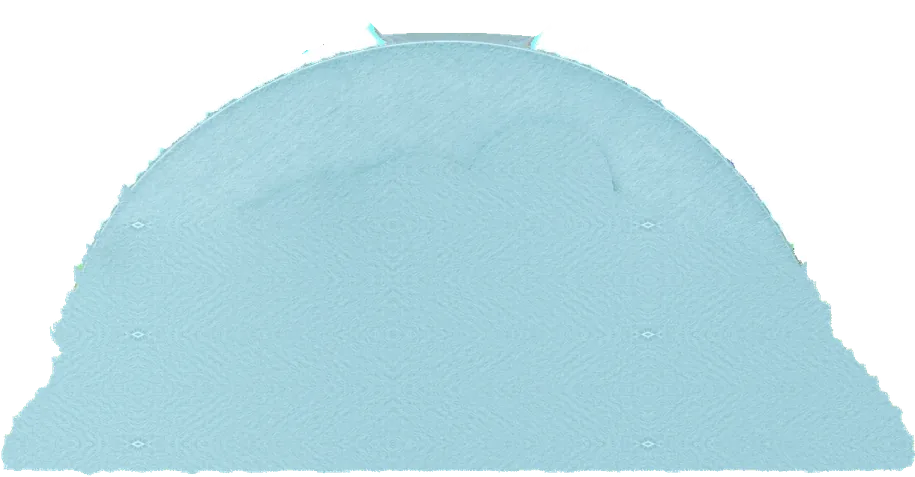
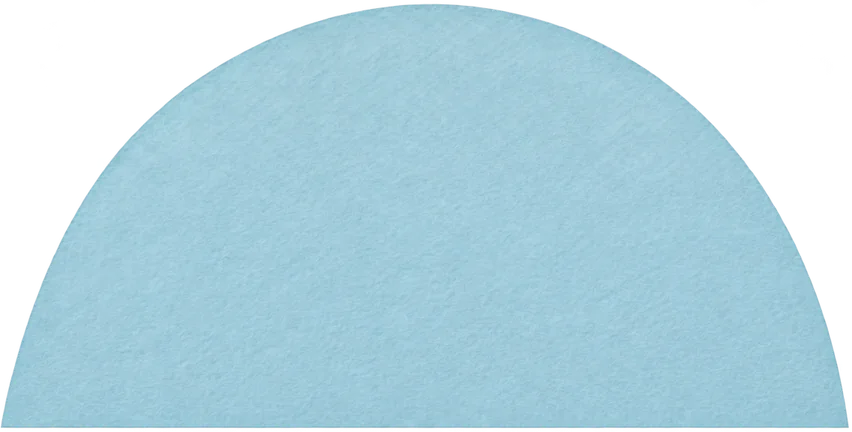
Home animation: Lizeth's complete layers, built layer by layer
The living-landscape animation now uses the 13 layers Lizeth prepared for
the transition (capas-completas-transicion, 2026-11-20): sky, cream
mountain, teal mountains, green hills and ground drawn whole, then water,
forests, biodiversity, people, agriculture, soils and climate (each with
its medallion), then the arc and the caption. Their timing: base 0-2 s,
water 3 s, then every 1.5 s, arc 13 s; a soft fade with a short rise; a
two-second hold; loop at 16.1 s.

The still is these layers stacked, so the last frame and the still are the
same picture. 13 layers + still: 599 KB (the 75 cut pieces and the dome
mask are removed).

Changed region(s): [[0.0, 0.0, 1.0, 1.0]]

diff --git a/frontend/src/lib/ui/living-landscape-timeline.ts b/frontend/src/lib/ui/living-landscape-timeline.ts
@@ -1,165 +1,63 @@
 /**
- * Timeline of the home page's living-landscape animation: the paper illustration builds itself one
- * part at a time, each part of the scene with its medallion, then the dashed arc and the caption,
- * holds on the full picture and loops. Order and timing follow the layer plan of 2026-11-19 (base 0 s,
- * water 1 s, then one part every 1.5 s, arc and caption at 11.5 s, still from 13 s to 15 s); every
- * entry is a soft fade with a short move, 0.4 to 0.6 s.
- * Pure (no DOM): `LivingLandscape.astro` applies the poses. Distances are in pixels of the
- * 1116 x 750 scene. The pieces are cut from the illustration outside this repository
- * (MOSAIC_development/_docs/living-landscape-animation/build in the project folder).
+ * Timeline of the home page's living-landscape animation: the paper illustration builds itself layer
+ * by layer — sky, mountains, hills and ground, then each part of the landscape with its medallion,
+ * then the dashed arc and the caption — holds on the full picture and loops.
+ * Layers and timing are Lizeth's layer set for the transition (capas-completas-transicion,
+ * 2026-11-20): every layer is whole (what other layers hide is drawn too), and each one comes in with
+ * a soft fade and a short rise from below.
+ * Pure (no DOM): `LivingLandscape.astro` applies the poses. Distances are in pixels of the 1116 x 750
+ * scene. The layers are exported by MOSAIC_development/_docs/living-landscape-animation/build/
+ * export_layers_site.py in the project folder, outside this repository.
  */
-
-export type Kind = 'slide' | 'pop' | 'wipe' | 'rise' | 'path'
-
-export interface Params {
-  dx?: number
-  dy?: number
-  rot?: number
-  /** starting scale of a pop */
-  s0?: number
-  /** CSS transform-origin */
-  origin?: string
-  /** path: [dx, dy, rot] waypoints, the piece glides through them to its resting place */
-  pts?: [number, number, number][]
-}
 
 export interface Cue {
   id: string
   t0: number
   dur: number
-  kind: Kind
-  p: Params
+  /** the layer rises this many pixels into place */
+  rise: number
 }
 
 export interface Pose {
-  tx: number
   ty: number
-  rot: number
-  scale: number
   opacity: number
-  /** CSS clip-path, empty when none */
-  clip: string
 }
 
-/** every piece has settled; the still illustration is shown on top from here */
-export const SETTLE = 12.8
-/** the scene fades back to the empty sky from here */
-export const FADE_OUT = 15.0
-export const CYCLE = 15.6
-/** pieces in the scene from the first frame */
-export const ALWAYS = ['sky']
-
-/** The cut was drawn on the 1536 px source; the site uses it at 3/4. */
-const S = 0.75
-
-const dash = (n: number): string => 'dash' + String(n).padStart(2, '0')
-
-/** Ids that start with `prefix` and end in a number, in numeric order (river1 … river5). */
-function numbered(ids: readonly string[], prefix: string): string[] {
-  return ids
-    .filter((i) => i.startsWith(prefix) && /^\d+$/.test(i.slice(prefix.length)))
-    .sort((a, b) => Number(a.slice(prefix.length)) - Number(b.slice(prefix.length)))
-}
+/** each layer's entry, in seconds */
+export const ENTRY = 0.5
+/** layer id → start time, in order of entry */
+export const SCHEDULE: readonly (readonly [string, number])[] = [
+  ['sky', 0.0],
+  ['mountain_cream', 0.5],
+  ['mountains_teal', 1.0],
+  ['hills', 1.5],
+  ['ground', 2.0],
+  ['water', 3.0],
+  ['forests', 4.5],
+  ['biodiversity', 6.0],
+  ['people', 7.5],
+  ['agriculture', 9.0],
+  ['soils', 10.5],
+  ['climate', 12.0],
+  ['arc', 13.0],
+]
+/** every layer has settled; the still illustration is shown on top from here */
+export const SETTLE = 13.5
+/** the scene fades out from here, after a two-second hold */
+export const FADE_OUT = 15.5
+export const CYCLE = 16.1
 
 export function buildTimeline(ids: readonly string[]): Cue[] {
   const have = new Set(ids)
-  const cues: Cue[] = []
-  const at = (id: string, t0: number, dur: number, kind: Kind, p: Params = {}): void => {
-    if (!have.has(id)) return
-    const q: Params = { ...p }
-    if (q.dx !== undefined) q.dx *= S
-    if (q.dy !== undefined) q.dy *= S
-    if (q.pts) q.pts = q.pts.map(([x, y, r]) => [x * S, y * S, r])
-    cues.push({ id, t0, dur, kind, p: q })
-  }
-  /** a part of the landscape: its medallion and label first, the scene follows */
-  const medal = (name: string, t: number): void => {
-    at('med_' + name, t, 0.5, 'pop', { s0: 0.8 })
-    at('label_' + name, t + 0.1, 0.5, 'slide', { dy: 10 })
-  }
-
-  // 0 s the base: hills and ground rise into the dome, back to front
-  at('m1', 0.0, 0.6, 'slide', { dy: 40 })
-  at('m2', 0.15, 0.6, 'slide', { dy: 40 })
-  at('m3', 0.3, 0.6, 'slide', { dy: 40 })
-  at('ground', 0.45, 0.6, 'slide', { dy: 40 })
-  // 1 s water: the river flows in from its far end
-  medal('water', 1.0)
-  numbered(ids, 'river').forEach((r, k) => at(r, 1.1 + k * 0.08, 0.5, 'slide', { dy: -10 }))
-  // 2.5 s forests: the grove grows up from its base
-  medal('forests', 2.5)
-  at('grove', 2.6, 0.6, 'wipe', { dy: 10 })
-  // 4 s biodiversity: grasses, flowers, then the butterfly glides in
-  medal('biodiversity', 4.0)
-  at('plants', 4.1, 0.5, 'wipe', { dy: 8 })
-  numbered(ids, 'flower').forEach((f, k) => at(f, 4.3 + k * 0.06, 0.4, 'pop', { s0: 0.6, origin: '50% 100%' }))
-  at('butterfly', 4.5, 0.6, 'path', { pts: [[-90, 30, -12], [-40, 6, 8], [0, 0, 0]] })
-  // 5.5 s people and livelihoods: the farmhouse, then the cattle
-  medal('people', 5.5)
-  at('walls', 5.6, 0.5, 'rise', { dy: 30 })
-  at('roofs', 5.75, 0.45, 'slide', { dy: -16 })
-  at('cow1', 5.9, 0.5, 'slide', { dx: -30 })
-  at('cow2', 5.98, 0.5, 'slide', { dx: 30 })
-  // 7 s agriculture: the field, its strips, then the wheat
-  medal('agriculture', 7.0)
-  at('field', 7.1, 0.5, 'slide', { dx: 40 })
-  numbered(ids, 'stripe').forEach((s, k) => at(s, 7.25 + k * 0.05, 0.4, 'slide', { dx: 24 }))
-  numbered(ids, 'wheat').forEach((w, k) => at(w, 7.4 + k * 0.03, 0.4, 'pop', { s0: 0.6, origin: '50% 100%' }))
-  // 8.5 s land and soils: bottom layer first
-  medal('land', 8.5)
-  at('soil3', 8.6, 0.45, 'slide', { dy: 24 })
-  at('soil2', 8.7, 0.45, 'slide', { dy: 24 })
-  at('soil1', 8.8, 0.45, 'slide', { dy: 24 })
-  // 10 s climate: the sun rises behind the hills
-  medal('climate', 10.0)
-  at('sun', 10.1, 0.9, 'slide', { dy: 90 })
-  // 11.5 s the dashed arc, one dash after another from water to climate, then the caption
-  for (let n = 1; n <= 16; n++) at(dash(n), 11.5 + (n - 1) * 0.04, 0.4, 'pop', { s0: 0.5 })
-  at('rule_l', 12.2, 0.5, 'slide', { dx: -24 })
-  at('rule_r', 12.2, 0.5, 'slide', { dx: 24 })
-  at('caption', 12.25, 0.5, 'slide', { dy: 12 })
-  return cues
+  return SCHEDULE.filter(([id]) => have.has(id)).map(([id, t0]) => ({ id, t0, dur: ENTRY, rise: 8 }))
 }
 
 /** ease-out: fast start, soft landing, no overshoot */
 const ease = (p: number): number => 1 - (1 - p) ** 3
-/** the piece is fully opaque after the first 60 % of its move */
-const fadeIn = (p: number): number => {
-  const q = Math.min(1, p / 0.6)
-  return q * q * (3 - 2 * q)
-}
 
-/** Pose of a piece `p` (0…1) of the way through its cue. At p = 1 every kind is at rest. */
-export function pose(kind: Kind, prm: Params, p: number): Pose {
-  if (p >= 1) return { tx: 0, ty: 0, rot: 0, scale: 1, opacity: 1, clip: '' }
-  const e = ease(Math.max(0, p))
-  const k = 1 - e
-  const out: Pose = { tx: 0, ty: 0, rot: 0, scale: 1, opacity: fadeIn(Math.max(0, p)), clip: '' }
-  if (kind === 'slide') {
-    out.tx = (prm.dx ?? 0) * k
-    out.ty = (prm.dy ?? 0) * k
-    out.rot = (prm.rot ?? 0) * k
-  } else if (kind === 'pop') {
-    const s0 = prm.s0 ?? 0.8
-    out.scale = s0 + (1 - s0) * e
-    out.rot = (prm.rot ?? 0) * k
-  } else if (kind === 'wipe') {
-    if (e < 1) out.clip = `inset(${((1 - e) * 100).toFixed(2)}% 0 0 0)`
-    out.ty = (prm.dy ?? 0) * k
-  } else if (kind === 'rise') {
-    out.ty = (prm.dy ?? 0) * k
-    if (out.ty > 0) out.clip = `inset(0 0 ${out.ty.toFixed(1)}px 0)`
-  } else if (kind === 'path' && prm.pts && prm.pts.length) {
-    // glide along the waypoints, eased as a whole
-    const n = prm.pts.length - 1
-    const x = e * n
-    const i = Math.min(n - 1, Math.floor(x))
-    const f = n === 0 ? 1 : x - i
-    const a = prm.pts[Math.max(0, i)] ?? [0, 0, 0]
-    const b = prm.pts[Math.min(n, i + 1)] ?? [0, 0, 0]
-    out.tx = a[0] + (b[0] - a[0]) * f
-    out.ty = a[1] + (b[1] - a[1]) * f
-    out.rot = a[2] + (b[2] - a[2]) * f
-  }
-  return out
+/** Pose of a layer `p` (0…1) of the way through its entry. At p = 1 it is at rest. */
+export function pose(cue: Cue, p: number): Pose {
+  if (p >= 1) return { ty: 0, opacity: 1 }
+  const q = Math.max(0, p)
+  return { ty: cue.rise * (1 - ease(q)), opacity: Math.min(1, q / 0.8) }
 }

diff --git a/frontend/tests/living-landscape.test.ts b/frontend/tests/living-landscape.test.ts
@@ -1,51 +1,34 @@
 import { describe, expect, it } from 'vitest'
 import manifest from '../src/components/home/living-landscape-pieces.json'
-import { ALWAYS, CYCLE, FADE_OUT, SETTLE, buildTimeline, pose } from '../src/lib/ui/living-landscape-timeline'
+import { CYCLE, FADE_OUT, SCHEDULE, SETTLE, buildTimeline, pose } from '../src/lib/ui/living-landscape-timeline'
 
 const ids = manifest.pieces.map((p) => p.id)
 const cues = buildTimeline(ids)
 
 describe('living-landscape animation timeline', () => {
-  it('gives every piece a place on the timeline, once', () => {
+  it('gives every layer a place on the timeline, once', () => {
     const placed = cues.map((c) => c.id)
     expect(new Set(placed).size).toBe(placed.length)
-    expect([...placed, ...ALWAYS].sort()).toEqual([...ids].sort())
+    expect([...placed].sort()).toEqual([...ids].sort())
   })
 
-  it('settles every piece before the still is shown, and holds at least two seconds', () => {
+  it('brings the layers in the planned order: base, the seven parts, then the arc', () => {
+    expect(cues.map((c) => c.id)).toEqual(SCHEDULE.map(([id]) => id))
+    const starts = cues.map((c) => c.t0)
+    expect(starts).toEqual([...starts].sort((a, b) => a - b))
+    expect(cues.at(-1)?.id).toBe('arc')
+  })
+
+  it('settles every layer before the still is shown, and holds at least two seconds', () => {
     for (const c of cues) expect(c.t0 + c.dur).toBeLessThanOrEqual(SETTLE)
     expect(FADE_OUT - SETTLE).toBeGreaterThanOrEqual(2)
     expect(CYCLE).toBeGreaterThan(FADE_OUT)
   })
 
-  it('brings each medallion in with its label', () => {
-    for (const name of ['water', 'forests', 'biodiversity', 'people', 'agriculture', 'land', 'climate']) {
-      const med = cues.find((c) => c.id === `med_${name}`)
-      const label = cues.find((c) => c.id === `label_${name}`)
-      expect(med && label && Math.abs(med.t0 - label.t0) < 0.5).toBe(true)
-    }
-  })
-
-  it('ends every kind of move at rest', () => {
+  it('starts each layer hidden and ends it at rest', () => {
     for (const c of cues) {
-      const q = pose(c.kind, c.p, 1)
-      expect([q.tx, q.ty, q.rot, q.scale, q.opacity, q.clip]).toEqual([0, 0, 0, 1, 1, ''])
+      expect(pose(c, 0).opacity).toBe(0)
+      expect(pose(c, 1)).toEqual({ ty: 0, opacity: 1 })
     }
-  })
-
-  it('brings each part in with a soft entry of 0.4 to 0.6 s, starting transparent', () => {
-    for (const c of cues) {
-      expect(c.dur).toBeGreaterThanOrEqual(0.4)
-      expect(c.dur).toBeLessThanOrEqual(0.9) // the sun rises a little slower
-      expect(pose(c.kind, c.p, 0).opacity).toBe(0)
-    }
-  })
-
-  it('follows the layer plan: base, water, forests, biodiversity, people, agriculture, land, climate, arc', () => {
-    const start = (id: string): number => cues.find((c) => c.id === id)?.t0 ?? NaN
-    const order = ['ground', 'med_water', 'med_forests', 'med_biodiversity', 'med_people', 'med_agriculture', 'med_land', 'med_climate', 'dash01', 'caption']
-    const times = order.map(start)
-    expect(times).toEqual([...times].sort((a, b) => a - b))
-    expect(start('dash16')).toBeLessThan(start('caption'))
   })
 })
